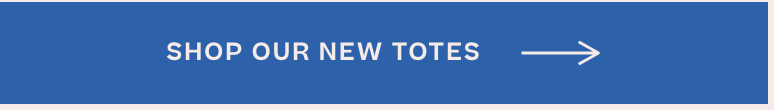
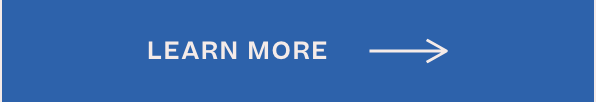
creating button

Changed region(s): [[0.0, 0.0, 0.9966, 1.0], [0.2114, 0.3824, 0.7852, 0.6176]]

diff --git a/components/index.html b/components/index.html
@@ -15,18 +15,24 @@
     <body>
         <h1>Web Components</h1>
 
-        <h2>Buttons</h2>
+        <h2 class="component__name">Buttons</h2>
 
-        <img src="images/buttons/button--small-active.png" alt="Active blue button" width="18.5rem" height="51px"/>
-
-        <!-- <img 
+        <img class="component__screenshot"
             srcset="images/buttons/button--small-active.png 2x" 
             src="images/buttons/button--small-active.png"
-            alt="Active blue button"/> -->
+            alt="Active blue button"
+        />
      
         <div class="component">
-            <a href="#!" class="button--small bs--active">Shop our new totes</a>
+            <a href="#!" class="button--small bs--active"><span class="button__text">Learn More</span>
+                <span class="button__arrow">
+                    <svg xmlns="http://www.w3.org/2000/svg" viewBox="0 0 72.51 51" xml:space="preserve">
+                    <path d="m43.06 19.57 11.09 6.21-11.09 6.6m-27.63-6.4h38.73" stroke-width="1.5" stroke-miterlimit="10"/></svg>
+                </span>
+            </a>
         </div>
+
+
 
     </body>
 

diff --git a/css/main.css b/css/main.css
@@ -24,27 +24,46 @@ body {
 }
 
 img {
-  display: block;
   max-width: 100%;
-  height: auto;
+}
+
+svg {
+  display: inline-block;
+  /* vertical-align: right; */
+  width: 100%;
+  height: 100%;
+}
+
+a {
+  text-decoration: none;
 }
 
 /* Buttons */
 
 .button--small {
+  display: flex;
   font-family: var(--font-main);
-  width: 18.5rem;
+  justify-content: center;
+  align-items: center;
+  width: 293px;
+  height: 51px;
   text-transform: uppercase;
   letter-spacing: .8px;
   font-size: 1em;
+  letter-spacing: .8px;
+  
 }
 
 .bs--active {
+  display: flex;
   color: var(--pinky-beige);
   background-color: var(--denim);
+  align-items: center;
+}
 
-
-
-
-
+.button__arrow {
+ /* height: 3rem; */
+ width: 5rem;
+ fill: none;
+ stroke: var(--pinky-beige);
 }
